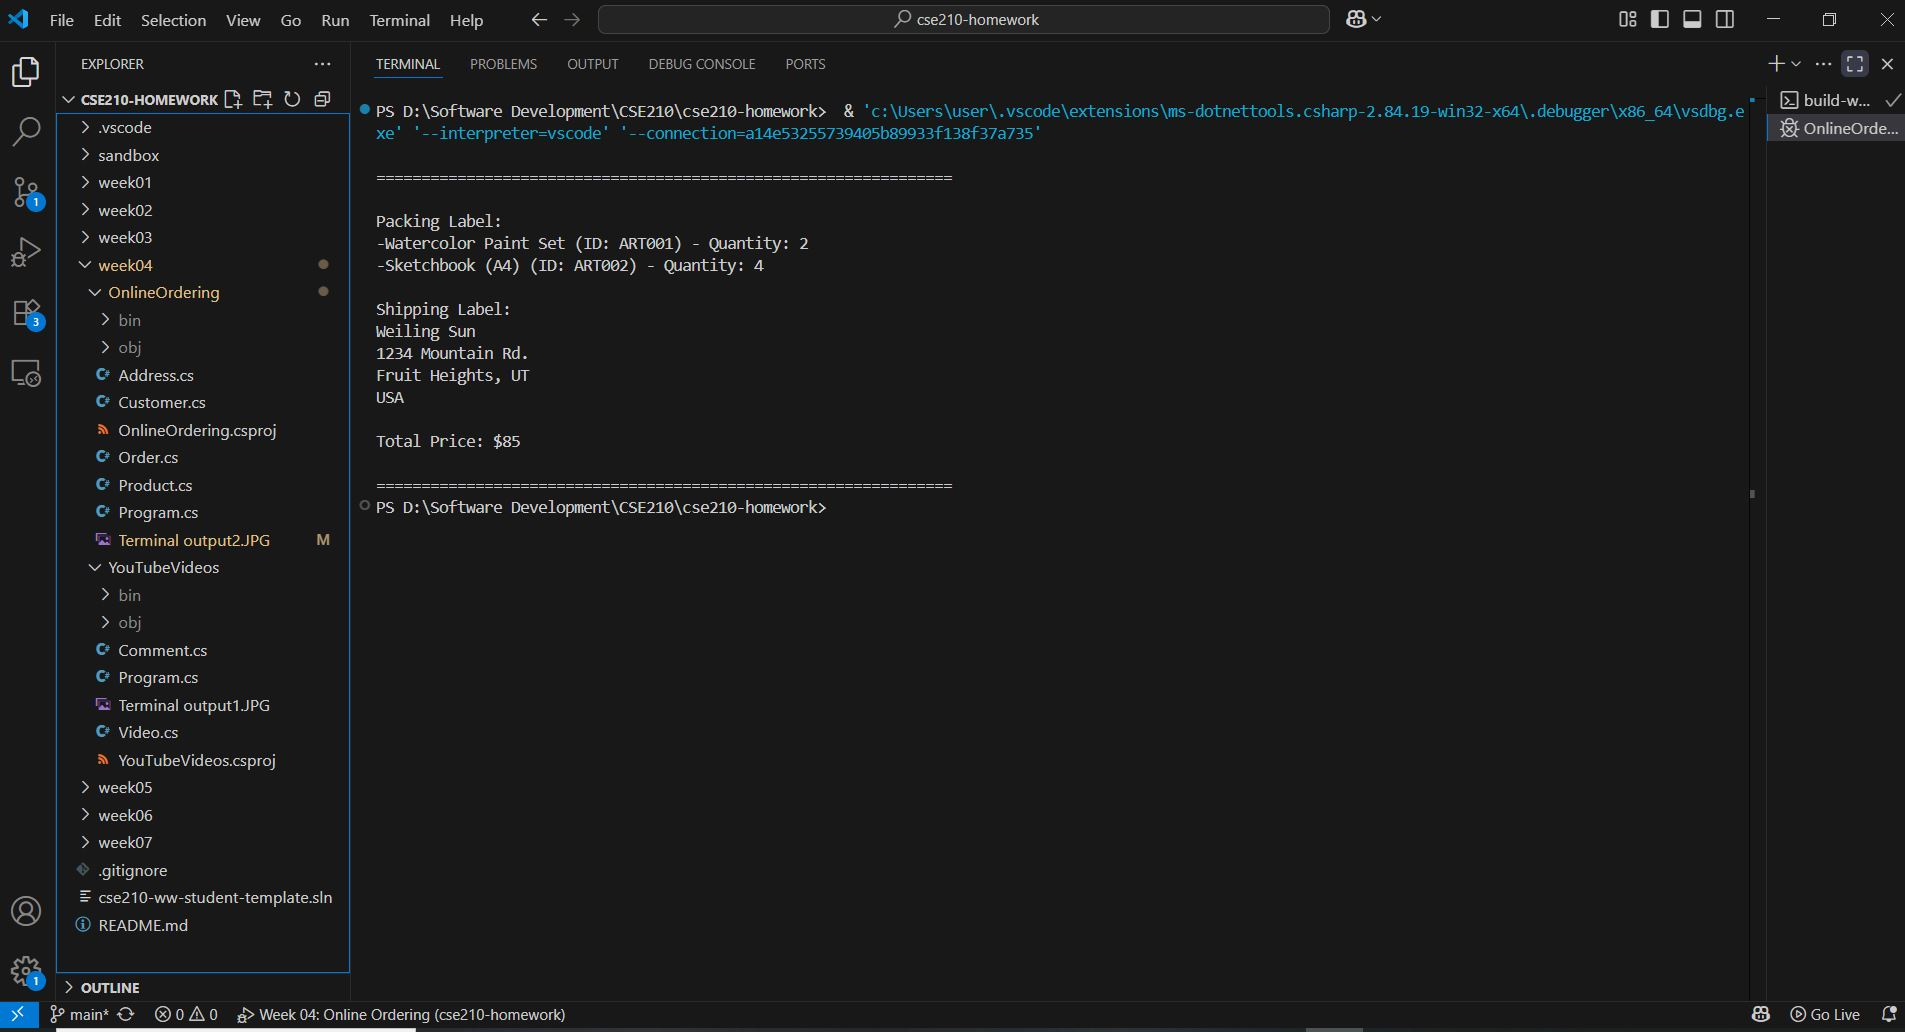
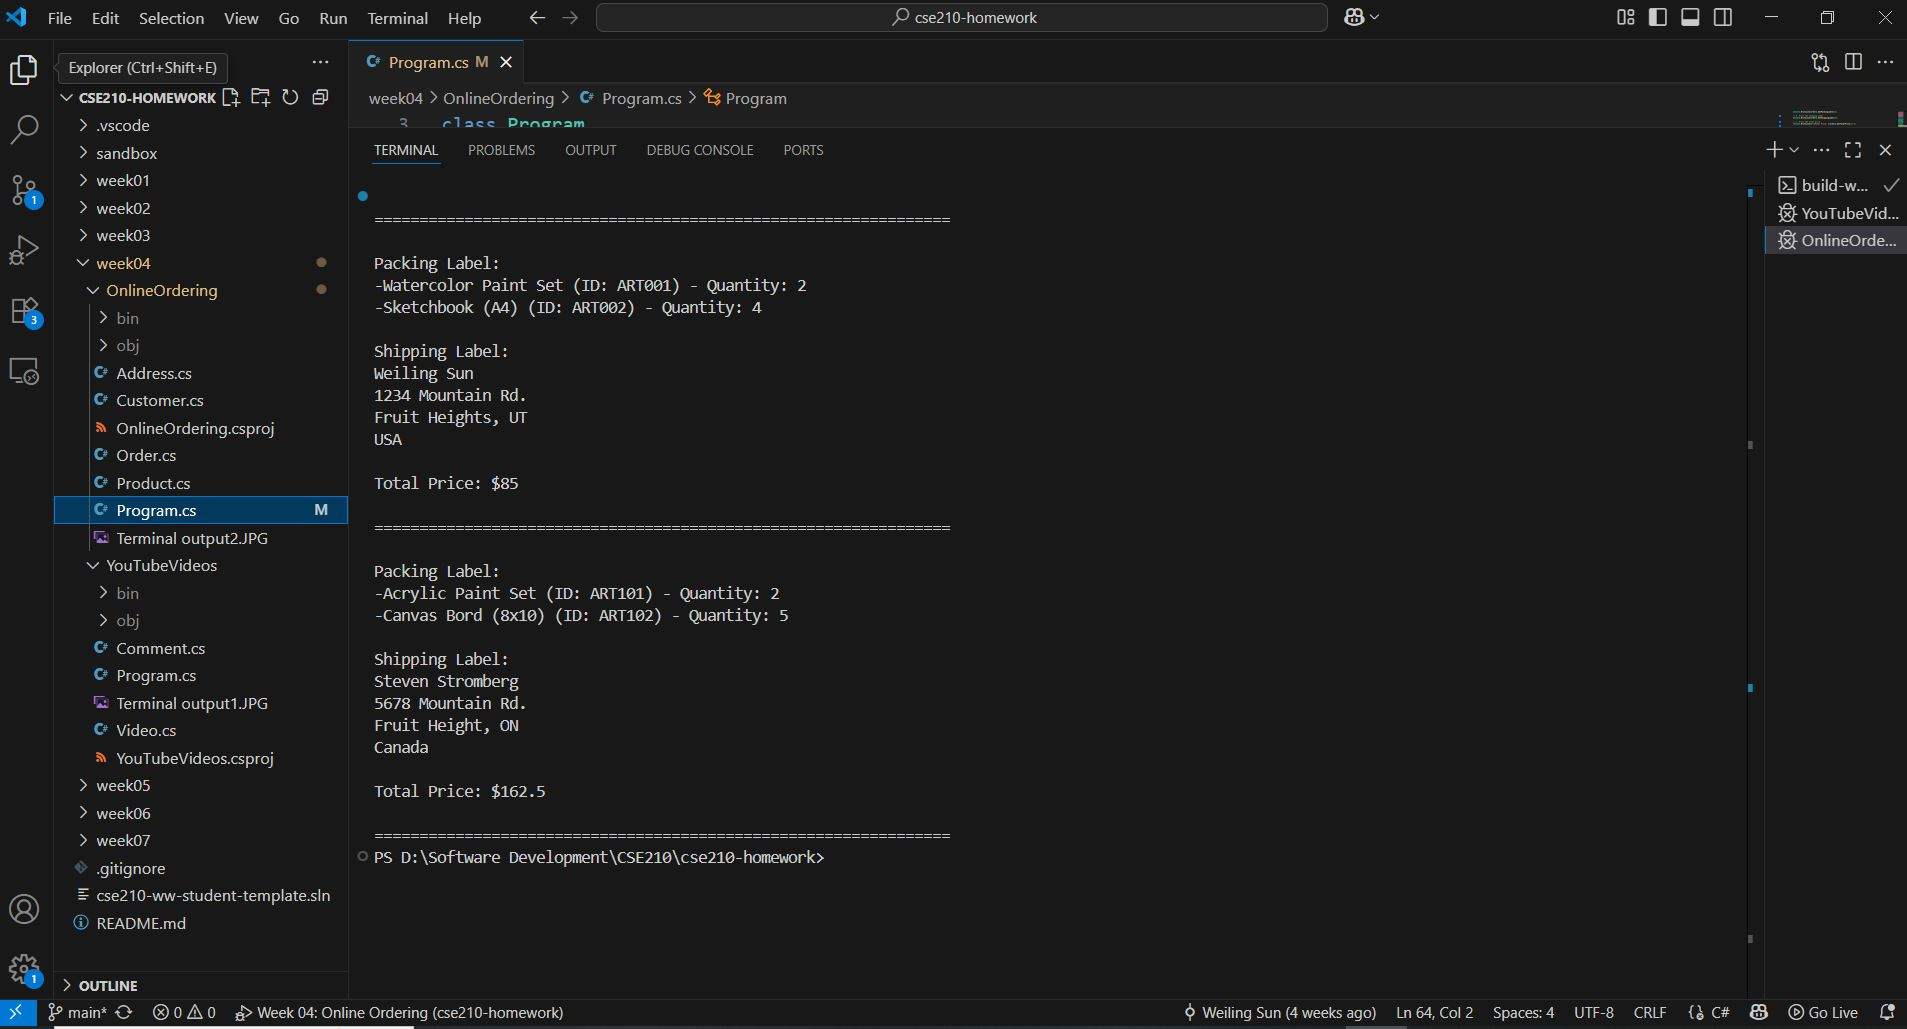
added another order

diff --git a/week04/OnlineOrdering/Program.cs b/week04/OnlineOrdering/Program.cs
@@ -5,33 +5,60 @@ class Program
     static void Main(string[] args)
     {
         Console.WriteLine("\n================================================================");
-        // 1. Create an address
-        Address address1 = new Address("1234 Mountain Rd.", "Fruit Heights", "UT", "USA");
 
-        // 2. Create an customer with the address
+        // -------- ORDER 1 --------
+        // 1. Create an address and an customer with the address
+        Address address1 = new Address("1234 Mountain Rd.", "Fruit Heights", "UT", "USA");
         Customer customer1 = new Customer("Weiling Sun", address1);
 
-        // 3. Create some products
+        // 2. Create some products
         Product product1 = new Product("Watercolor Paint Set", "ART001", 20.00, 2);
         Product product2 = new Product("Sketchbook (A4)", "ART002", 10.00, 4);
 
-        // 4. Create an order for the customer
+        // 3. Create an order for the customer
         Order order1 = new Order(customer1);
 
-        // 5. Add products to the order
+        // 4. Add products to the order
         order1.AddProduct(product1);
         order1.AddProduct(product2);
 
-        // 6. Print the packing label 
+        // 5. Print the packing label 
         Console.WriteLine(order1.GetPackingLable());
 
-        // 7. Print the shipping label
+        // 6. Print the shipping label
         Console.WriteLine(order1.GetShippingLabel());
 
-        // 8. Print the total price
+        // 7. Print the total price
         Console.WriteLine($"\nTotal Price: ${order1.GetTotalPrice()}");
-        
+
         Console.WriteLine("\n================================================================");
+
+
+        // -------- ORDER 2 --------
+        // 1. Create an address and an customer with the address
+        Address address2 = new Address("5678 Mountain Rd.", "Fruit Height", "ON", "Canada");
+        Customer customer2 = new Customer("Steven Stromberg", address2);
+
+        // 2. Create some products
+        Product product3 = new Product("Acrylic Paint Set", "ART101", 25.00, 2);
+        Product product4 = new Product("Canvas Bord (8x10)", "ART102", 15.50, 5);
+
+        // 3. Create an order for the customer
+        Order order2 = new Order(customer2);
+
+        // 4. Add products to the order
+        order2.AddProduct(product3);
+        order2.AddProduct(product4);
+
+        // 5.Print the packing label 
+        Console.WriteLine(order2.GetPackingLable());
+        // 6. Print the shipping label
+        Console.WriteLine(order2.GetShippingLabel());
+        // 7. Print the total price
+        Console.WriteLine($"\nTotal Price: ${order2.GetTotalPrice()}");
+
+        Console.WriteLine("\n================================================================");
+
 
     }
 }
